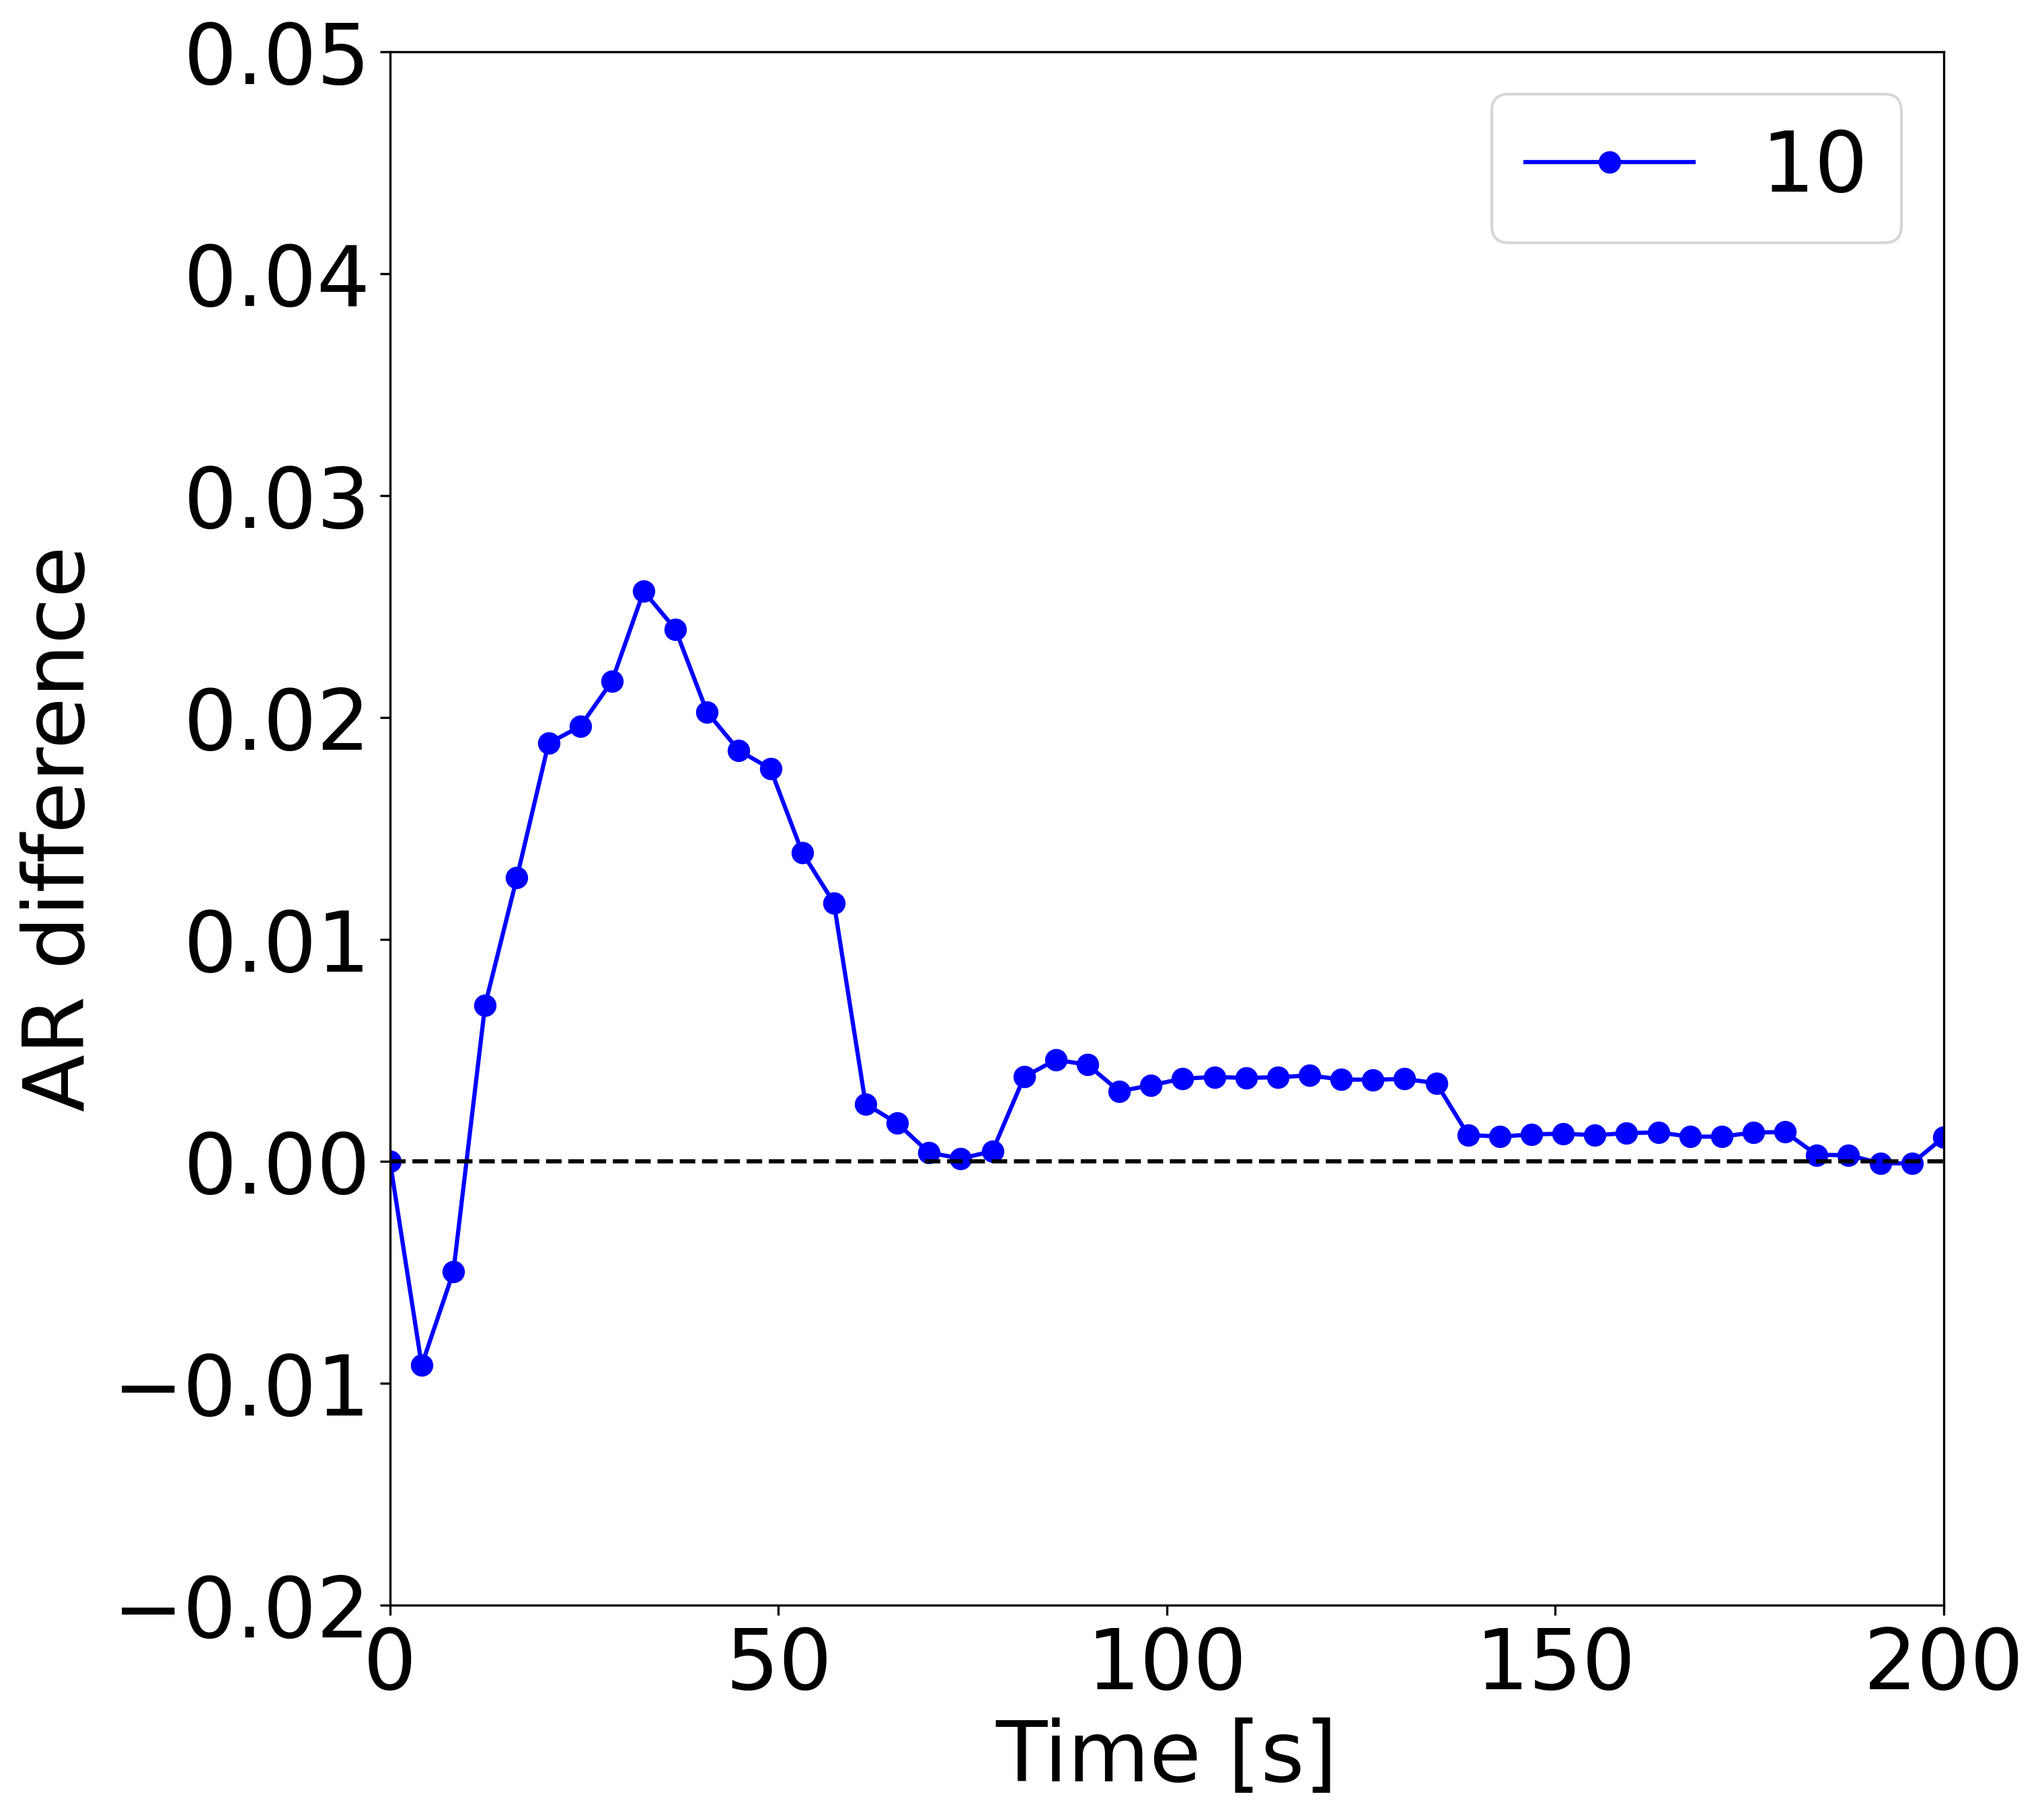
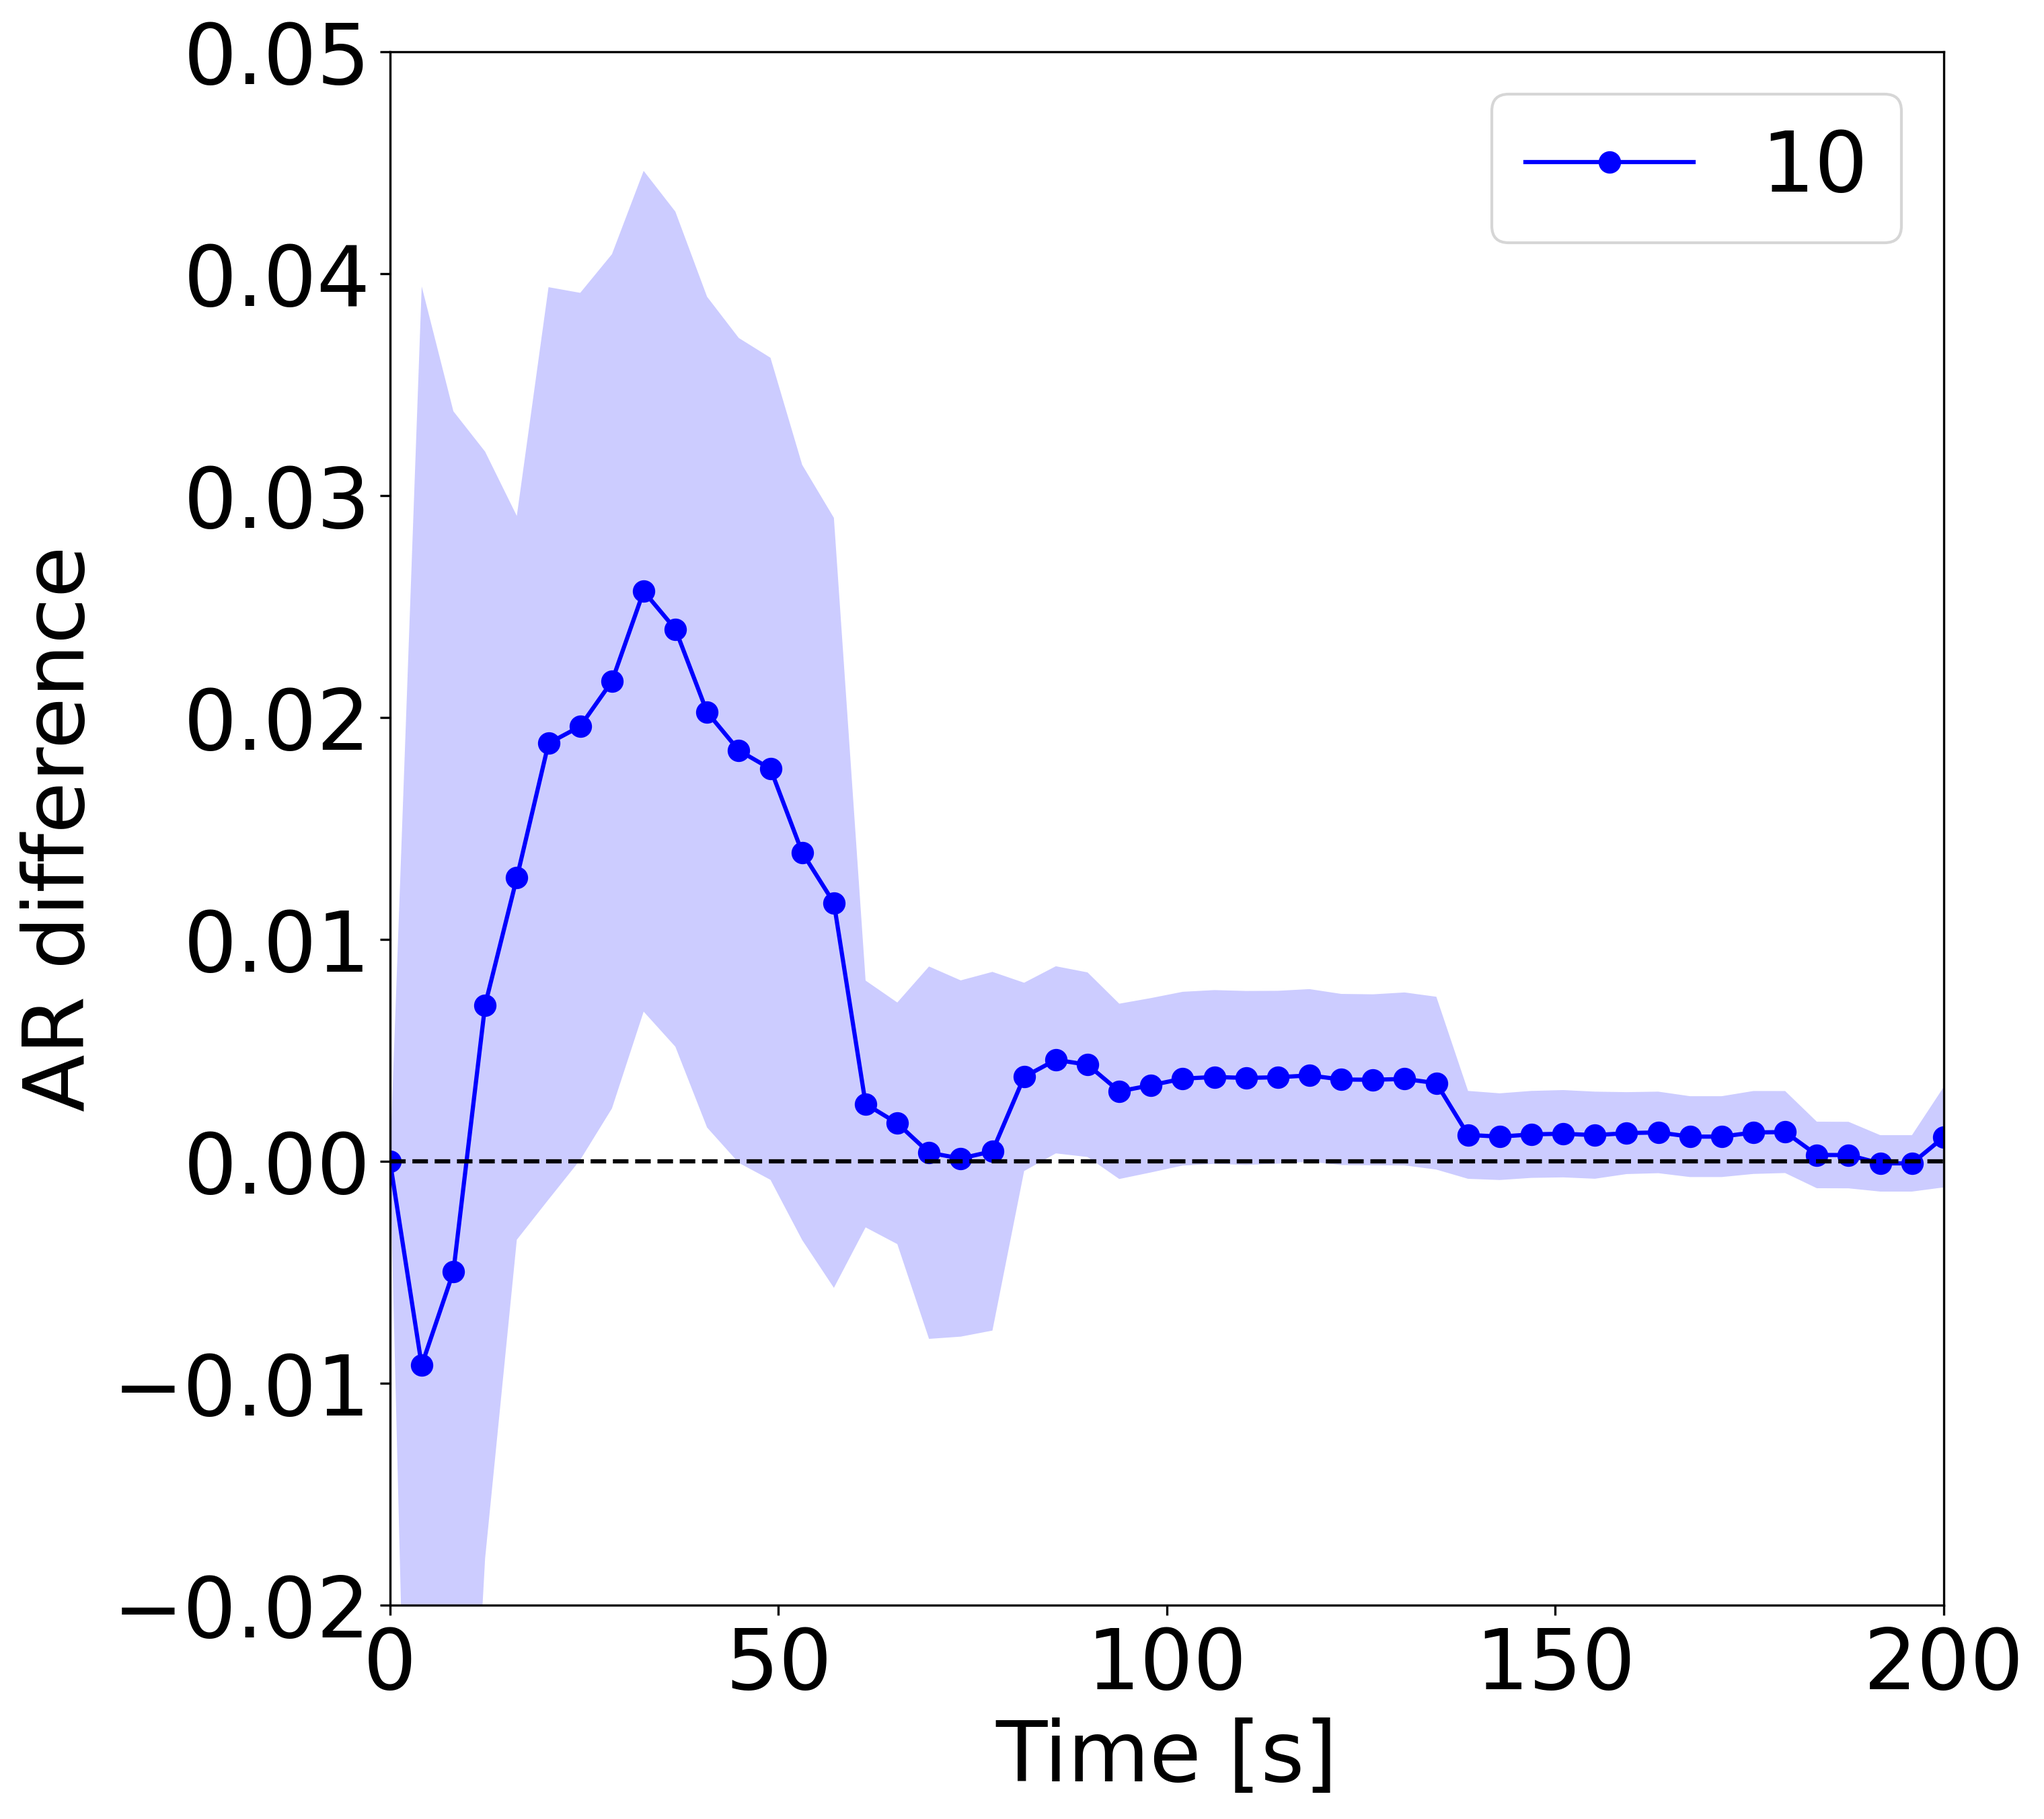
Adds confidence intervals to hybrid - uniform difference plots

Changed region(s): [[0.1856, 0.0932, 0.9589, 0.9006]]

diff --git a/plots/power_grid_opt.py b/plots/power_grid_opt.py
@@ -13,6 +13,7 @@ from src.HistoryEntry import HistoryEntry
 
 VIOLATION_TOLERANCE = 1e-10
 SOLVER_COLORS = {"SCIP": 0, "SMAC": 1, "Uniform": 2, "Hybrid": 3}
+CONFIDENCE = 0.9
 
 
 def plot_probability_distribution(probs: dict[str, float], y_max: float = 1):
@@ -98,13 +99,11 @@ def plot_ar_vs_time(num_generators: int, solver_ids: list[str], solver_names: li
     :param tmax: Maximum plotted time.
     :param y_bounds: Minimum and maximum values shown on the y-axis.
     """
-    confidence = 0.9
     xs, solver_data = load_histories([num_generators], solver_ids, len(solver_ids) - 1, np.linspace(0, tmax, 50))[0]
     lines = [Line(xs, histories.mean(axis=0), color=SOLVER_COLORS[name], label=name) for histories, name in zip(solver_data, solver_names, strict=True)]
     plot_general(lines, axis_labels=("Time [s]", "AR"), boundaries=(None, None) + y_bounds)
     for line, histories in zip(lines, solver_data, strict=True):
-        half_widths = t.ppf(0.5 + confidence / 2, len(histories) - 1) * sem(histories, axis=0)
-        plt.fill_between(xs, line.ys - half_widths, line.ys + half_widths, color=line.color, alpha=0.2, linewidth=0)
+        shade_confidence_interval(xs, histories, line.color)
     save_figure(str(Path(__file__).resolve().parent / "out" / f"ar_vs_time_{num_generators}.jpg"))
 
 
@@ -125,9 +124,10 @@ def plot_history_diff(num_generators: int, tmax: float):
     time_grid = np.linspace(0, tmax, 50)
 
     xs, solver_data = load_histories([num_generators], solver_ids, ref_ind, time_grid)[0]
-    first_ys, second_ys = (histories.mean(axis=0) for histories in solver_data[:2])
-    lines = [Line(xs, first_ys - second_ys, color=0, marker=0, label=str(num_generators)), Line([0, 10000], [0, 0], color="black", marker="none", style="--")]
+    diffs = solver_data[0] - solver_data[1]
+    lines = [Line(xs, diffs.mean(axis=0), color=0, marker=0, label=str(num_generators)), Line([0, 10000], [0, 0], color="black", marker="none", style="--")]
     plot_general(lines, axis_labels=("Time [s]", "AR difference"), boundaries=(0, xs[-1], -0.02, 0.05), font_size=30)
+    shade_confidence_interval(xs, diffs, lines[0].color)
     save_figure(str(Path(__file__).resolve().parent / "out" / f"history_diff_{num_generators}.png"))
 
 
@@ -155,6 +155,17 @@ def plot_ar_diff_vs_instance():
              Line([0, len(df) - 1], [0, 0], color="black", marker="none", style="--")]
     plot_general(lines, axis_labels=("Instance index", "Opt - Uniform AR Diff"), boundaries=(0, 99, None, 1))
     save_figure()
+
+
+def shade_confidence_interval(xs: Sequence[float], values: np.ndarray, color: str | tuple[float, float, float]):
+    """Shades the confidence interval of the mean of per-instance curves around their average.
+    :param xs: X-axis coordinates shared by all per-instance curves.
+    :param values: Per-instance curve values with instances along the first axis.
+    :param color: Matplotlib color of the shaded area.
+    """
+    means = values.mean(axis=0)
+    half_widths = t.ppf(0.5 + CONFIDENCE / 2, len(values) - 1) * sem(values, axis=0)
+    plt.fill_between(xs, means - half_widths, means + half_widths, color=color, alpha=0.2, linewidth=0)
 
 
 def load_histories(num_generators: list[int], solver_ids: list[str], ref_ind: int, time_grid: Sequence[float] | str = "auto") \
